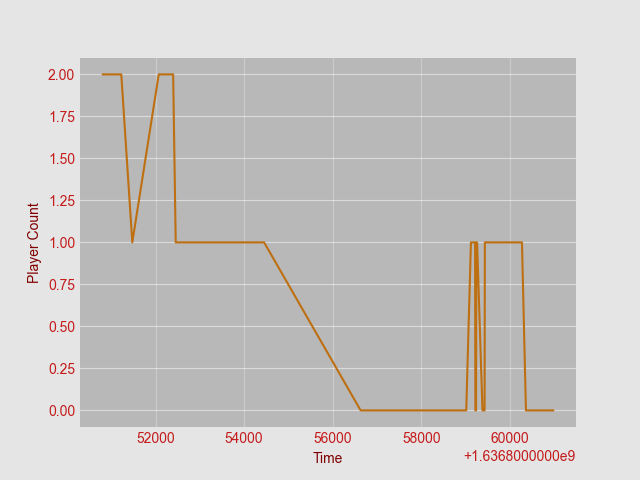
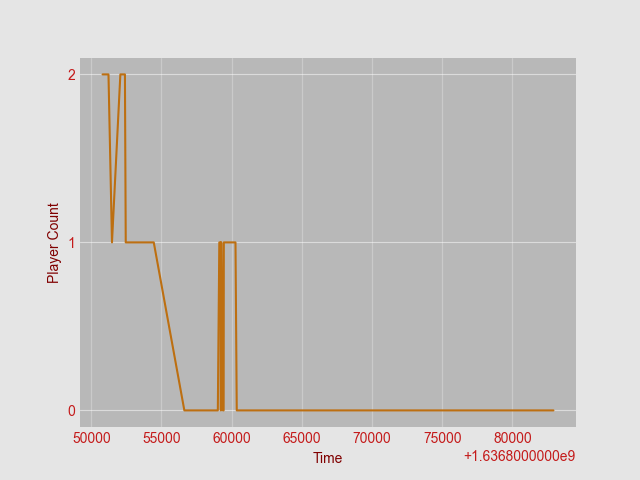
a whole lotta stuff

diff --git a/graph.py b/graph.py
@@ -1,3 +1,6 @@
+import datetime
+import random
+
 import matplotlib.pyplot as plt
 
 #convert unix time to default time --> using time
@@ -6,8 +9,7 @@ import matplotlib.pyplot as plt
 #Player data --> dictionary {time:player amount}
 import numpy as np
 
-
-def createGraph(playerData):
+def createLineGraph(playerData):
     timeStamp = []
     playerCount = []
     max_count = 0
@@ -18,20 +20,14 @@ def createGraph(playerData):
             max_count = len(p[1])
 
     yinterval = 1
-    if max_count > 16:
+    if max_count > 15:
         yinterval = 2
 
-    fig = plt.figure()
+    fig, ax = plt.subplots()
+
+    #fig = plt.figure()
     fig.set_facecolor('black')
     fig.patch.set_alpha(0.1)
-
-    ax = plt.axes()
-    ax.spines['bottom'].set_color('#781919')
-    ax.spines['left'].set_color('#781919')
-    ax.spines['top'].set_color('#781919')
-    ax.spines['right'].set_color('#781919')
-    ax.set_facecolor('black')
-    ax.patch.set_alpha(.2)
 
     plt.style.use('seaborn-darkgrid')
     plt.ylabel('Player Count',color='maroon')
@@ -40,13 +36,66 @@ def createGraph(playerData):
     plt.tick_params(axis='y',colors='#c41b1b', grid_alpha=0.5)
     #plt.rcParams.update({'font.size':10})
 
-    fig2, ax2 = plt.subplots()
-    ax2.yaxis.set_ticks(np.arange(0, max_count, yinterval))
-    ax.yaxis.set_ticks(np.arange(0, max_count, yinterval))
+    #ax = plt.axes()
+    ax.spines['bottom'].set_color('#781919')
+    ax.spines['left'].set_color('#781919')
+    ax.spines['top'].set_color('#781919')
+    ax.spines['right'].set_color('#781919')
+    ax.set_facecolor('black')
+    ax.patch.set_alpha(.2)
+    ticks = np.arange(0, max_count+1, yinterval)
+    ax.set_yticks(ticks)
+    ax.set_yticklabels(ticks)
+
+    # fig2, ax2 = plt.subplots()
+    # ax2.set_facecolor('black')
+    # ax2.yaxis.set_ticks(np.arange(0, max_count, yinterval+1))
+    # ax.yaxis.set_ticks(np.arange(0, max_count, yinterval+1))
 
     plt.plot(timeStamp,playerCount,color='#bd6f11')
-    plt.savefig('stats.png',orientation='portrait',pad_inches=0.1)
-    return 'stats.png'
+    name = str(random.randint(1, 99999)) + 'stats.png'
+    plt.savefig(name, orientation='portrait',pad_inches=0.1)
+    return name
+    #plt.show()
+def createBarGraph(playerData):
+    sums = [[], [], [], [], [], [], [], [], [], [], [], [], [], [], [], [], [], [], [], [], [], [], [], []]
+    labels = ["12AM", "1AM", "2AM", "3AM", "4AM", "5AM", "6AM", "7AM", "8AM", "9AM", "10AM", "11AM",
+              "12PM", "1PM", "2PM", "3PM", "4PM", "5PM", "6PM", "7PM", "8PM", "9PM", "10PM", "11PM"]
+    for p in playerData:
+        t = int(datetime.datetime.utcfromtimestamp(p[0]).hour)
+        sums[t].append(len(p[1]))
+    for i in range(0, 24):
+        if (len(sums[i]) == 0):
+            sums[i] = 0
+        else:
+            sums[i] = sum(sums[i]) / len(sums[i])
+    fig, ax = plt.subplots()
+
+    ax.bar(labels, sums)
+    #bp = box_plot(sums, "white", "gray")
+
+    fig.set_facecolor('black')
+    fig.patch.set_alpha(0.1)
+
+    plt.style.use('seaborn-darkgrid')
+    plt.ylabel('Average Players', color='maroon')
+    plt.xlabel('Hour', color='maroon')
+    plt.tick_params(axis='x', colors='#c41b1b', grid_alpha=0)
+    plt.tick_params(axis='y', colors='#c41b1b', grid_alpha=0.25)
+    plt.xticks(rotation = 90)
+
+    ax.spines['bottom'].set_color('#781919')
+    ax.spines['left'].set_color('#781919')
+    ax.spines['top'].set_color('#781919')
+    ax.spines['right'].set_color('#781919')
+    ax.set_facecolor('black')
+    ax.patch.set_alpha(.2)
+
+    #plt.plot(timeStamp, playerCount, color='#bd6f11')
+    name = str(random.randint(1, 99999)) + 'stats.png'
+    plt.savefig(name, orientation='portrait', pad_inches=0.1)
+    return name
+
     #plt.show()
 
 #lol = {1:5, 2:6, 3:6, 4:2}

diff --git a/main.py b/main.py
@@ -1,4 +1,6 @@
 #other things
+import time
+
 import discord
 import asyncio
 import datetime
@@ -10,7 +12,7 @@ from graph import *
 TOKEN = "OTA5MTM2OTAzMzQzODM3MjA0.YY_5uA.08zxzKNAu-mN98XesrU8pP_KwJk"
 
 
-def createEmbed(guild, raw, days):
+def createEmbed(guild, raw, image):
     embed = discord.Embed(title="%s Stats" % guild.name, description="MOTD:\n%s" % "TESTINGMOTD")
     if len(raw["players"]) == 2: #["sample"] is null
         print("-")
@@ -22,9 +24,9 @@ def createEmbed(guild, raw, days):
                     value="```\n%s```" % ("\n".join([y["name"] for y in raw["players"]["sample"]])), inline=False)
     embed.timestamp = datetime.datetime.now()
     embed.add_field(name="🕠", value='Last updated: <t:%s:f>' % int(time.time()), inline=False)
-    graph_name = createGraph(getRange(guild.id, time.time(), time.time() - (86400 * days)))
-    f = discord.File('stats.png')
-    embed.set_image(url='attachment://stats.png')
+    #graph_name = createLineGraph(getRange(guild.id, time.time(), time.time() - (86400 * days)))
+    f = discord.File(image)
+    embed.set_image(url='attachment://' + image)
     # embed.set_thumbnail(url=raw["favicon"])
     return embed, f
 
@@ -37,9 +39,9 @@ async def update_stats():
 
             # testing
             # poll(guild.id)
-            raw = poll(guild.id)
+            raw = poll(guild.id, True)
 
-            embed, f = createEmbed(guild, raw, 1)
+            embed, f = createEmbed(guild, raw, createLineGraph(getRange(guild.id, time.time(), time.time() - (86400 * 1))))
             try:
                 message = await channel.fetch_message(int(info["message_id"]))
                 await message.delete()
@@ -95,11 +97,13 @@ class MyClient(discord.Client):
         if msg.startswith("!statsfrom"):
             params = msg.split(" ")
             if len(params) != 2 or type(params[1]) != "int":
-                await message.channel.send("!statsfrom <number_of_days_ago")
+                await message.channel.send("!statsfrom <number_of_days_ago>")
             else:
-                e, f = createEmbed(message.guild, poll(message.guild.id), params[1])
+                e, f = createEmbed(message.guild, poll(message.guild.id, False), createLineGraph(getRange(message.guild.id, time.time(), time.time() - (86400 * float(params[1])))))
                 await message.channel.send(file=f, embed=e)
-
+        if msg.startswith("!hourly"):
+            e, f = createEmbed(message.guild, poll(message.guild.id, False), createBarGraph(getRange(message.guild.id, time.time(), 0)))
+            await message.channel.send(file=f, embed=e)
         if msg.startswith("!updatenow"):
             await update_stats()
 

diff --git a/mongo.py b/mongo.py
@@ -26,13 +26,14 @@ def formatSample(sample):
         output.append(dict)
     return output
 
-def poll(guild_id):
+def poll(guild_id, update):
     guild = getServer(guild_id)
     server = MinecraftServer.lookup(guild["ip"]) #+ ':' + guild["port"])
     # 'status' is supported by all Minecraft servers that are version 1.7 or higher.
     status = server.status()
     print("The server has {0} players and replied in {1} ms".format(status.players.online, status.latency))
-    data.insert_one({'guild':guild["id"],'time': int(time.time()),'players':formatSample(status.players.sample)})
+    if update:
+        data.insert_one({'guild':guild["id"],'time': int(time.time()),'players':formatSample(status.players.sample)})
     return status.raw
 
 def getRange(guild_id, upper, lower):
